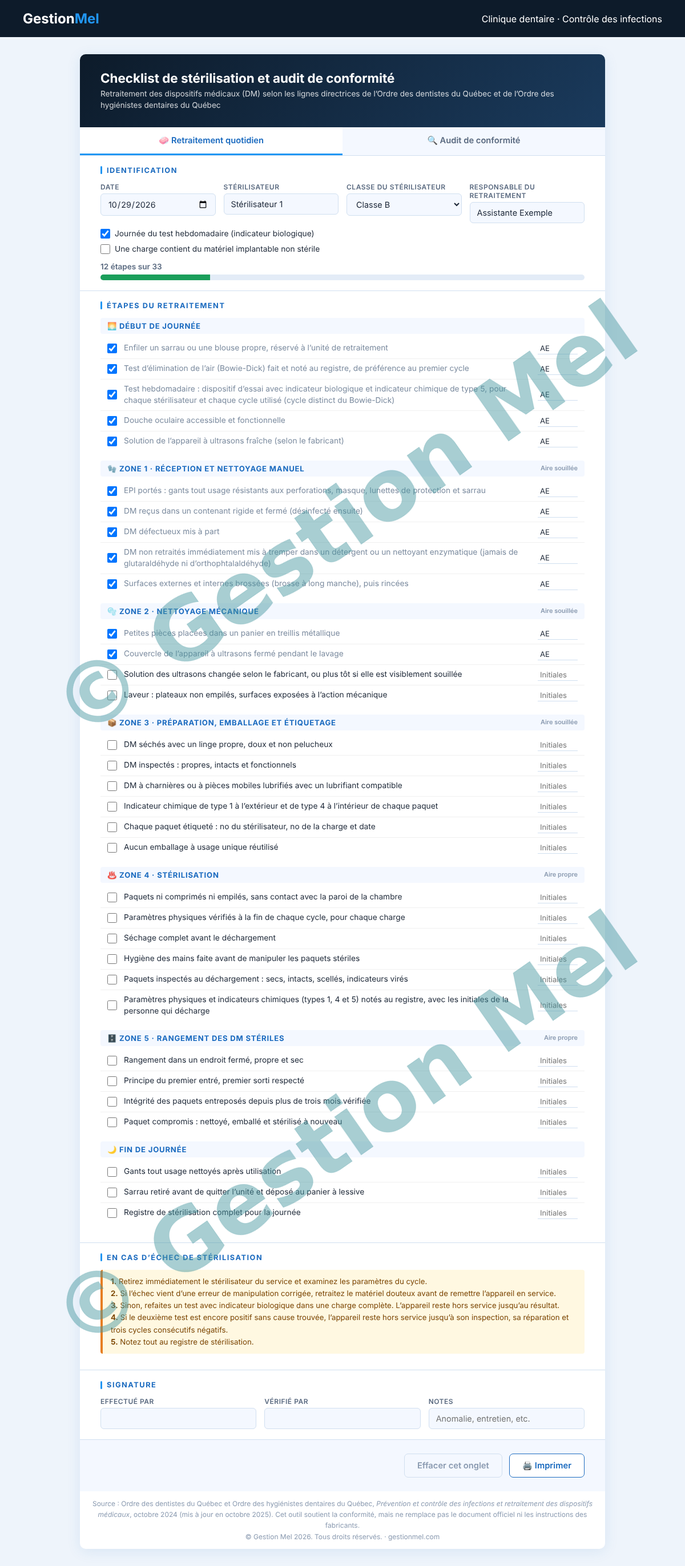
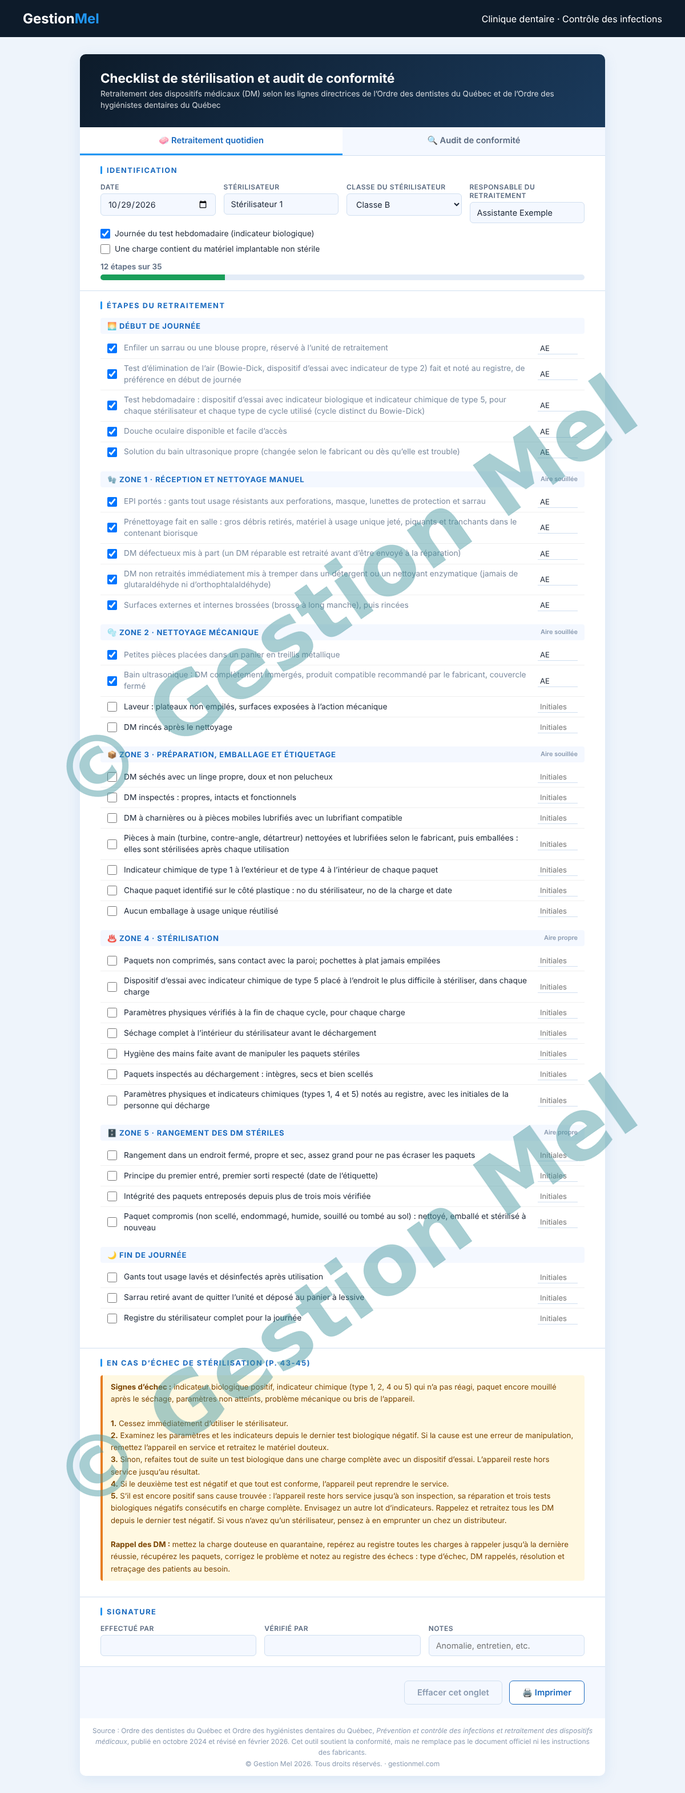
Checklist de stérilisation : mise à jour selon la révision de février 2026
DPE avec IC de type 5 dans chaque charge, registres conservés cinq ans,
protocole de rappel, pièces à main, assurance qualité annuelle et pages de
la version révisée.

Claude-Session: https://claude.ai/code/session_01VwVE9UVcjJxgAsPi28kuNj

Changed region(s): [[0.0, 0.0, 1.0, 0.9913]]

diff --git a/checklist-sterilisation-audit.html b/checklist-sterilisation-audit.html
@@ -98,13 +98,15 @@ table.plan td input{width:100%;padding:6px 8px;font-size:.82rem;}
     </div>
     <div class="section" id="q_liste"></div>
     <div class="section">
-      <div class="section-title">En cas d’échec de stérilisation</div>
+      <div class="section-title">En cas d’échec de stérilisation (p. 43-45)</div>
       <div class="avert-box">
-        <b>1.</b> Retirez immédiatement le stérilisateur du service et examinez les paramètres du cycle.<br>
-        <b>2.</b> Si l’échec vient d’une erreur de manipulation corrigée, retraitez le matériel douteux avant de remettre l’appareil en service.<br>
-        <b>3.</b> Sinon, refaites un test avec indicateur biologique dans une charge complète. L’appareil reste hors service jusqu’au résultat.<br>
-        <b>4.</b> Si le deuxième test est encore positif sans cause trouvée, l’appareil reste hors service jusqu’à son inspection, sa réparation et trois cycles consécutifs négatifs.<br>
-        <b>5.</b> Notez tout au registre de stérilisation.
+        <b>Signes d’échec :</b> indicateur biologique positif, indicateur chimique (type 1, 2, 4 ou 5) qui n’a pas réagi, paquet encore mouillé après le séchage, paramètres non atteints, problème mécanique ou bris de l’appareil.<br><br>
+        <b>1.</b> Cessez immédiatement d’utiliser le stérilisateur.<br>
+        <b>2.</b> Examinez les paramètres et les indicateurs depuis le dernier test biologique négatif. Si la cause est une erreur de manipulation, remettez l’appareil en service et retraitez le matériel douteux.<br>
+        <b>3.</b> Sinon, refaites tout de suite un test biologique dans une charge complète avec un dispositif d’essai. L’appareil reste hors service jusqu’au résultat.<br>
+        <b>4.</b> Si le deuxième test est négatif et que tout est conforme, l’appareil peut reprendre le service.<br>
+        <b>5.</b> S’il est encore positif sans cause trouvée : l’appareil reste hors service jusqu’à son inspection, sa réparation et trois tests biologiques négatifs consécutifs en charge complète. Envisagez un autre lot d’indicateurs. Rappelez et retraitez tous les DM depuis le dernier test négatif. Si vous n’avez qu’un stérilisateur, pensez à en emprunter un chez un distributeur.<br><br>
+        <b>Rappel des DM :</b> mettez la charge douteuse en quarantaine, repérez au registre toutes les charges à rappeler jusqu’à la dernière réussie, récupérez les paquets, corrigez le problème et notez au registre des échecs : type d’échec, DM rappelés, résolution et retraçage des patients au besoin.
       </div>
     </div>
     <div class="section">
@@ -126,7 +128,7 @@ table.plan td input{width:100%;padding:6px 8px;font-size:.82rem;}
         <div class="field"><label class="lab" for="a_par">Réalisé par</label><input type="text" id="a_par" data-k="a_par"></div>
         <div class="field"><label class="lab" for="a_proch">Prochain audit prévu</label><input type="date" id="a_proch" data-k="a_proch"></div>
       </div>
-      <div class="info-box">Pour chaque point, choisissez <b>Conforme</b>, <b>À corriger</b> ou <b>S. O.</b> (sans objet). Les points <span class="tag oblig">Obligatoire</span> correspondent à un « doit » des lignes directrices; les points <span class="tag recom">Recommandé</span>, à un « devrait ». Les pages renvoient à la version d’octobre 2024 du document.</div>
+      <div class="info-box">Pour chaque point, choisissez <b>Conforme</b>, <b>À corriger</b> ou <b>S. O.</b> (sans objet). Les points <span class="tag oblig">Obligatoire</span> correspondent à un « doit » des lignes directrices; les points <span class="tag recom">Recommandé</span>, à un « devrait ». Les pages renvoient à la version révisée de février 2026 du document.</div>
     </div>
     <div class="section" id="a_liste"></div>
     <div class="section" id="a_resultat">
@@ -146,7 +148,7 @@ table.plan td input{width:100%;padding:6px 8px;font-size:.82rem;}
     <button class="btn btn-ghost" id="btnReset">Effacer cet onglet</button>
     <button class="btn btn-secondary" onclick="window.print()">🖨 Imprimer</button>
   </div>
-  <div class="footer-note">Source : Ordre des dentistes du Québec et Ordre des hygiénistes dentaires du Québec, <i>Prévention et contrôle des infections et retraitement des dispositifs médicaux</i>, octobre 2024 (mis à jour en octobre 2025). Cet outil soutient la conformité, mais ne remplace pas le document officiel ni les instructions des fabricants.<br>© Gestion Mel 2026. Tous droits réservés. · gestionmel.com</div>
+  <div class="footer-note">Source : Ordre des dentistes du Québec et Ordre des hygiénistes dentaires du Québec, <i>Prévention et contrôle des infections et retraitement des dispositifs médicaux</i>, publié en octobre 2024 et révisé en février 2026. Cet outil soutient la conformité, mais ne remplace pas le document officiel ni les instructions des fabricants.<br>© Gestion Mel 2026. Tous droits réservés. · gestionmel.com</div>
 </div>
 
 <script>
@@ -154,100 +156,123 @@ table.plan td input{width:100%;padding:6px 8px;font-size:.82rem;}
 const QUOT = [
  {t:'🌅 Début de journée', z:'', items:[
   {id:'d1', x:'Enfiler un sarrau ou une blouse propre, réservé à l’unité de retraitement'},
-  {id:'d2', x:'Test d’élimination de l’air (Bowie-Dick) fait et noté au registre, de préférence au premier cycle', classe:'B'},
-  {id:'d3', x:'Test hebdomadaire : dispositif d’essai avec indicateur biologique et indicateur chimique de type 5, pour chaque stérilisateur et chaque cycle utilisé (cycle distinct du Bowie-Dick)', hebdo:true},
-  {id:'d4', x:'Douche oculaire accessible et fonctionnelle'},
-  {id:'d5', x:'Solution de l’appareil à ultrasons fraîche (selon le fabricant)'} ]},
+  {id:'d2', x:'Test d’élimination de l’air (Bowie-Dick, dispositif d’essai avec indicateur de type 2) fait et noté au registre, de préférence en début de journée', classe:'B'},
+  {id:'d3', x:'Test hebdomadaire : dispositif d’essai avec indicateur biologique et indicateur chimique de type 5, pour chaque stérilisateur et chaque type de cycle utilisé (cycle distinct du Bowie-Dick)', hebdo:true},
+  {id:'d4', x:'Douche oculaire disponible et facile d’accès'},
+  {id:'d5', x:'Solution du bain ultrasonique propre (changée selon le fabricant ou dès qu’elle est trouble)'} ]},
  {t:'🧤 Zone 1 · Réception et nettoyage manuel', z:'Aire souillée', items:[
   {id:'r1', x:'EPI portés : gants tout usage résistants aux perforations, masque, lunettes de protection et sarrau'},
-  {id:'r2', x:'DM reçus dans un contenant rigide et fermé (désinfecté ensuite)'},
-  {id:'r3', x:'DM défectueux mis à part'},
+  {id:'r2', x:'Prénettoyage fait en salle : gros débris retirés, matériel à usage unique jeté, piquants et tranchants dans le contenant biorisque'},
+  {id:'r3', x:'DM défectueux mis à part (un DM réparable est retraité avant d’être envoyé à la réparation)'},
   {id:'r4', x:'DM non retraités immédiatement mis à tremper dans un détergent ou un nettoyant enzymatique (jamais de glutaraldéhyde ni d’orthophtalaldéhyde)'},
   {id:'r5', x:'Surfaces externes et internes brossées (brosse à long manche), puis rincées'} ]},
  {t:'🫧 Zone 2 · Nettoyage mécanique', z:'Aire souillée', items:[
   {id:'m1', x:'Petites pièces placées dans un panier en treillis métallique'},
-  {id:'m2', x:'Couvercle de l’appareil à ultrasons fermé pendant le lavage'},
-  {id:'m3', x:'Solution des ultrasons changée selon le fabricant, ou plus tôt si elle est visiblement souillée'},
-  {id:'m4', x:'Laveur : plateaux non empilés, surfaces exposées à l’action mécanique'} ]},
+  {id:'m2', x:'Bain ultrasonique : DM complètement immergés, produit compatible recommandé par le fabricant, couvercle fermé'},
+  {id:'m4', x:'Laveur : plateaux non empilés, surfaces exposées à l’action mécanique'},
+  {id:'m5', x:'DM rincés après le nettoyage'} ]},
  {t:'📦 Zone 3 · Préparation, emballage et étiquetage', z:'Aire souillée', items:[
   {id:'e1', x:'DM séchés avec un linge propre, doux et non pelucheux'},
   {id:'e2', x:'DM inspectés : propres, intacts et fonctionnels'},
   {id:'e3', x:'DM à charnières ou à pièces mobiles lubrifiés avec un lubrifiant compatible'},
-  {id:'e3b', x:'Pièces à main (turbine, contre-angle, détartreur) nettoyées, lubrifiées et emballées pour être stérilisées après chaque patient'},
+  {id:'e3b', x:'Pièces à main (turbine, contre-angle, détartreur) nettoyées et lubrifiées selon le fabricant, puis emballées : elles sont stérilisées après chaque utilisation'},
   {id:'e4', x:'Indicateur chimique de type 1 à l’extérieur et de type 4 à l’intérieur de chaque paquet'},
-  {id:'e5', x:'Chaque paquet étiqueté : no du stérilisateur, no de la charge et date'},
+  {id:'e5', x:'Chaque paquet identifié sur le côté plastique : no du stérilisateur, no de la charge et date'},
   {id:'e6', x:'Aucun emballage à usage unique réutilisé'} ]},
  {t:'♨ Zone 4 · Stérilisation', z:'Aire propre', items:[
-  {id:'s1', x:'Paquets ni comprimés ni empilés, sans contact avec la paroi de la chambre'},
+  {id:'s1', x:'Paquets non comprimés, sans contact avec la paroi; pochettes à plat jamais empilées'},
+  {id:'s1b', x:'Dispositif d’essai avec indicateur chimique de type 5 placé à l’endroit le plus difficile à stériliser, dans chaque charge'},
   {id:'s2', x:'Charge avec matériel implantable non stérile : dispositif d’essai avec indicateur biologique et indicateur chimique de type 5', impl:true},
   {id:'s3', x:'Paramètres physiques vérifiés à la fin de chaque cycle, pour chaque charge'},
-  {id:'s4', x:'Séchage complet avant le déchargement'},
+  {id:'s4', x:'Séchage complet à l’intérieur du stérilisateur avant le déchargement'},
   {id:'s5', x:'Hygiène des mains faite avant de manipuler les paquets stériles'},
-  {id:'s6', x:'Paquets inspectés au déchargement : secs, intacts, scellés, indicateurs virés'},
+  {id:'s6', x:'Paquets inspectés au déchargement : intègres, secs et bien scellés'},
   {id:'s7', x:'Paramètres physiques et indicateurs chimiques (types 1, 4 et 5) notés au registre, avec les initiales de la personne qui décharge'} ]},
  {t:'🗄 Zone 5 · Rangement des DM stériles', z:'Aire propre', items:[
-  {id:'g1', x:'Rangement dans un endroit fermé, propre et sec'},
-  {id:'g2', x:'Principe du premier entré, premier sorti respecté'},
+  {id:'g1', x:'Rangement dans un endroit fermé, propre et sec, assez grand pour ne pas écraser les paquets'},
+  {id:'g2', x:'Principe du premier entré, premier sorti respecté (date de l’étiquette)'},
   {id:'g3', x:'Intégrité des paquets entreposés depuis plus de trois mois vérifiée'},
-  {id:'g4', x:'Paquet compromis : nettoyé, emballé et stérilisé à nouveau'} ]},
+  {id:'g4', x:'Paquet compromis (non scellé, endommagé, humide, souillé ou tombé au sol) : nettoyé, emballé et stérilisé à nouveau'} ]},
  {t:'🌙 Fin de journée', z:'', items:[
-  {id:'f1', x:'Gants tout usage nettoyés après utilisation'},
+  {id:'f1', x:'Gants tout usage lavés et désinfectés après utilisation'},
   {id:'f2', x:'Sarrau retiré avant de quitter l’unité et déposé au panier à lessive'},
-  {id:'f3', x:'Registre de stérilisation complet pour la journée'} ]}
+  {id:'f3', x:'Registre du stérilisateur complet pour la journée'} ]}
 ];
 
 /* ---------- Contenu : audit de conformité ---------- */
 const AUDIT = [
  {t:'🏗 Aménagement de l’unité de retraitement', items:[
-  {id:'a1', o:1, p:'p. 33', x:'Le retraitement se fait de façon unidirectionnelle, du plus souillé au plus propre'},
-  {id:'a2', o:1, p:'p. 33', x:'L’aire souillée et l’aire propre sont physiquement séparées (cloison, distance suffisante, configuration circulaire ou deux pans de mur)'},
-  {id:'a3', o:1, p:'p. 33', x:'Les 5 zones sont identifiées : réception et nettoyage manuel, nettoyage mécanique, emballage (aire souillée), stérilisation, rangement (aire propre)'},
-  {id:'a4', o:1, p:'p. 33', x:'L’unité sert uniquement au retraitement : aucun travail de laboratoire, aucun nettoyage de prothèses aux ultrasons, aucune pause repas'},
+  {id:'a1', o:1, p:'p. 33', x:'Le retraitement se fait de façon unidirectionnelle, du plus souillé au plus propre, sans retour en arrière'},
+  {id:'a2', o:1, p:'p. 33', x:'L’aire souillée et l’aire propre sont séparées (cloison, distance suffisante, configuration circulaire ou deux pans de mur)'},
+  {id:'a3', o:1, p:'p. 33', x:'Les 5 zones sont distinctes et faciles à repérer : réception et nettoyage manuel, nettoyage mécanique, emballage (aire souillée), stérilisation, rangement (aire propre)'},
+  {id:'a4', o:1, p:'p. 33', x:'L’unité sert uniquement au retraitement : aucun travail de laboratoire, nettoyage de prothèses aux ultrasons ni pause repas, et elle n’est pas dans une salle où se donnent des soins ou des consultations'},
+  {id:'a8', o:1, p:'p. 33', x:'Nouvelle construction ou rénovation : l’unité est dans un espace central, réservée au personnel du retraitement et séparée des aires de circulation'},
   {id:'a5', o:1, p:'p. 31', x:'Personne ne mange ni ne boit dans l’unité de retraitement'},
   {id:'a6', o:1, p:'p. 43', x:'Aucun DM stérile ni matériel à usage unique n’est rangé dans l’aire souillée'},
   {id:'a7', o:0, p:'p. 41', x:'La zone de stérilisation offre assez d’espace pour le déchargement et le refroidissement'} ]},
  {t:'⚙ Équipements', items:[
-  {id:'b1', o:1, p:'p. 41', x:'Tous les stérilisateurs sont homologués par Santé Canada'},
-  {id:'b2', o:1, p:'p. 41', x:'La stérilisation se fait à la vapeur par élimination dynamique de l’air (classe N, B ou S). Aucun chemiclave, stérilisateur à chaleur sèche, à billes ni stérilisation à froid'},
-  {id:'b3', o:0, p:'p. 34', x:'Au remplacement d’un stérilisateur, un appareil de classe B est privilégié (fortement recommandé)'},
-  {id:'b4', o:1, p:'p. 39', x:'Le laveur automatique est un appareil dentaire homologué par Santé Canada (aucun lave-vaisselle domestique ou commercial)'},
-  {id:'b5', o:1, p:'p. 38', x:'Une douche oculaire homologuée, permettant un rinçage de 15 minutes, est accessible dans un endroit central'},
-  {id:'b6', o:1, p:'p. 38', x:'Un contenant pour déchets biorisque rigide, hermétique et identifié est en place'},
-  {id:'b7', o:1, p:'p. 16', x:'Les distributeurs de savon et de solution hydroalcoolique fonctionnent avec une pompe ou un détecteur de mouvement'},
-  {id:'b8', o:1, p:'p. 41', x:'Les instructions du fabricant sont respectées : cycles, qualité de l’eau, entretiens et indicateurs'} ]},
+  {id:'b1', o:1, p:'p. 41, 46', x:'Les stérilisateurs et les autres équipements de retraitement (bain ultrasonique, laveur, séchoir) sont homologués par Santé Canada'},
+  {id:'b2', o:1, p:'p. 41', x:'La stérilisation se fait à la vapeur (classe N, B ou S). Aucun chemiclave, stérilisateur à chaleur sèche ou à billes, ni stérilisation à froid'},
+  {id:'b3', o:1, p:'p. 34', x:'Au remplacement d’un stérilisateur, un appareil à élimination dynamique de l’air (classe B ou S) est priorisé'},
+  {id:'b4', o:1, p:'p. 39', x:'Le laveur automatique est un appareil dentaire homologué (aucun lave-vaisselle domestique ou commercial)'},
+  {id:'b5', o:1, p:'p. 28', x:'Une douche oculaire homologuée par Santé Canada, fixe ou portative, est disponible dans un endroit central facile d’accès'},
+  {id:'b6', o:1, p:'p. 38', x:'Un contenant biorisque rigide, hermétique et identifié est installé dans chaque salle opératoire'},
+  {id:'b7', o:1, p:'p. 16', x:'Le savon et la solution hydroalcoolique sont offerts dans des distributeurs à pompe ou à détecteur de mouvement (aucun savon en pain)'},
+  {id:'b8', o:1, p:'p. 41', x:'Les instructions du fabricant sont respectées : cycles, qualité de l’eau, chargement, entretiens et indicateurs'},
+  {id:'b9', o:1, p:'p. 46', x:'Le programme d’entretien préventif est respecté (nettoyage, lubrification, filtres, joints, calibrage)'},
+  {id:'b10', o:0, p:'p. 46', x:'Les entretiens et les réparations des équipements sont notés au registre'} ]},
  {t:'🧤 Protection du personnel', items:[
   {id:'c1', o:1, p:'p. 38', x:'Le personnel porte des gants tout usage résistants aux perforations, un masque, des lunettes de protection et un sarrau pendant la manipulation et le nettoyage'},
-  {id:'c2', o:1, p:'p. 24', x:'Les gants tout usage résistent aux produits chimiques et sont nettoyés après chaque utilisation'},
+  {id:'c2', o:1, p:'p. 23-24', x:'Les gants tout usage résistent aux produits chimiques et sont lavés et désinfectés après chaque utilisation'},
   {id:'c3', o:1, p:'p. 27', x:'Un sarrau propre et personnel est enfilé à l’entrée de l’unité, y reste, et est retiré avant d’en sortir'} ]},
  {t:'🧽 Prénettoyage, transport et nettoyage', items:[
-  {id:'d1', o:1, p:'p. 37-38', x:'Un contenant pour objets piquants ou tranchants est installé dans chaque salle'},
-  {id:'d2', o:1, p:'p. 38', x:'Les DM contaminés sont transportés dans un contenant rigide et fermé, désinfecté ensuite'},
+  {id:'d1', o:1, p:'p. 37-38', x:'En salle : gros débris retirés, matériel à usage unique jeté, piquants et tranchants dans le contenant biorisque'},
+  {id:'d8', o:1, p:'p. 37', x:'Un DM défectueux est mis à part, et retraité avant d’être envoyé à la réparation'},
+  {id:'d2', o:0, p:'p. 38', x:'Pour un transport sur une grande distance (p. ex., un autre étage), les DM voyagent dans un contenant rigide et fermé, désinfecté ensuite'},
   {id:'d3', o:0, p:'p. 38', x:'Les DM non retraités immédiatement trempent dans un détergent ou un nettoyant enzymatique'},
   {id:'d4', o:1, p:'p. 38', x:'Le glutaraldéhyde et l’orthophtalaldéhyde ne servent jamais de solution de trempage'},
   {id:'d5', o:1, p:'p. 39', x:'Le nettoyage mécanique se fait dans une zone distincte de la réception'},
-  {id:'d6', o:1, p:'p. 39', x:'La solution des ultrasons est changée selon le fabricant et le couvercle reste fermé pendant le lavage'} ]},
- {t:'📦 Emballage et étiquetage', items:[
-  {id:'e1', o:1, p:'p. 40', x:'Les DM à charnières ou à pièces mobiles sont lubrifiés avec un produit compatible'},
-  {id:'e2', o:1, p:'p. 40-41', x:'Les emballages à usage unique ne sont jamais réutilisés'},
-  {id:'e3', o:1, p:'p. 41', x:'La clinique possède la preuve écrite du fabricant validant les matériaux d’emballage'},
-  {id:'e4', o:1, p:'p. 37', x:'Chaque paquet porte un indicateur chimique de type 1 à l’extérieur et de type 4 à l’intérieur'},
-  {id:'e5', o:1, p:'p. 41', x:'Chaque paquet porte le no du stérilisateur, le no de la charge et la date'} ]},
+  {id:'d7', o:1, p:'p. 85', x:'Tous les DM passent au nettoyage mécanique (bain ultrasonique ou laveur)'},
+  {id:'d6', o:1, p:'p. 39', x:'La solution ultrasonique est changée selon le fabricant ou dès qu’elle est trouble, et le couvercle reste fermé pendant le lavage'} ]},
+ {t:'📦 Emballage et identification', items:[
+  {id:'e1', o:1, p:'p. 40', x:'La lubrification se fait dans l’aire souillée, avec un produit compatible, pour tout DM à charnière ou à pièce mobile'},
+  {id:'e2', o:1, p:'p. 40', x:'Les emballages à usage unique ne sont jamais réutilisés'},
+  {id:'e3', o:1, p:'p. 40', x:'La clinique possède la preuve écrite du fabricant validant les matériaux d’emballage'},
+  {id:'e6', o:1, p:'p. 40', x:'Les enveloppes de textile proviennent d’un établissement détenant une licence (LEIM) de Santé Canada'},
+  {id:'e4', o:1, p:'p. 35, 37', x:'Chaque paquet porte un indicateur chimique de type 1 à l’extérieur et de type 4 à l’intérieur'},
+  {id:'e5', o:1, p:'p. 41', x:'Chaque paquet porte le no du stérilisateur, le no de la charge et la date, sur le côté plastique'} ]},
+ {t:'🦷 Pièces à main et matériel à usage unique', items:[
+  {id:'p1', o:1, p:'p. 59', x:'Les pièces à main et les autres dispositifs fixés aux conduites d’air ou d’eau sont stérilisés après chaque utilisation, selon les instructions du fabricant'},
+  {id:'p2', o:1, p:'p. 59', x:'Les composants fixés en permanence (moteur, manchon, succions, seringue air-eau) sont désinfectés ou recouverts d’une barrière changée entre chaque patient'},
+  {id:'p3', o:1, p:'p. 60', x:'Le matériel à usage unique n’est jamais retraité'},
+  {id:'p4', o:0, p:'p. 60', x:'La clinique tient un registre du matériel à usage unique, consulté par les nouveaux employés'} ]},
  {t:'🧪 Surveillance de la stérilisation', items:[
-  {id:'f1', o:1, p:'p. 36', x:'Stérilisateur de classe B : test de Bowie-Dick fait chaque jour et noté au registre'},
-  {id:'f2', o:1, p:'p. 36-37', x:'Chaque semaine, pour chaque stérilisateur et chaque cycle utilisé : dispositif d’essai avec indicateur biologique et indicateur chimique de type 5, dans un cycle distinct du Bowie-Dick'},
-  {id:'f3', o:1, p:'p. 37', x:'Chaque charge contenant du matériel implantable non stérile inclut ce dispositif d’essai'},
+  {id:'f1', o:1, p:'p. 36', x:'Stérilisateur de classe B : test de Bowie-Dick (indicateur de type 2) fait chaque jour et noté au registre'},
+  {id:'f2', o:1, p:'p. 36-37', x:'Chaque semaine, pour chaque stérilisateur et chaque type de cycle utilisé : dispositif d’essai avec indicateur biologique et indicateur chimique de type 5, dans un cycle distinct du Bowie-Dick'},
+  {id:'f2b', o:1, p:'p. 37', x:'Chaque charge contient un dispositif d’essai avec indicateur chimique de type 5, à l’endroit le plus difficile à stériliser'},
+  {id:'f3', o:1, p:'p. 37', x:'Chaque charge contenant du matériel implantable non stérile inclut un dispositif d’essai avec indicateur biologique et indicateur chimique de type 5'},
   {id:'f4', o:1, p:'p. 34', x:'Les paramètres physiques sont vérifiés à la fin de chaque cycle, pour chaque charge'},
-  {id:'f5', o:1, p:'p. 42', x:'Au déchargement, les paramètres et les indicateurs chimiques sont notés au registre, avec les initiales de la personne qui décharge'},
-  {id:'f6', o:1, p:'p. 37', x:'Un indicateur caché dans une cassette est vérifié à l’ouverture en salle et noté au dossier du patient'},
+  {id:'f5', o:1, p:'p. 42', x:'Au déchargement, les paramètres et les indicateurs chimiques (types 1, 4 et 5) sont notés au registre, avec les initiales de la personne qui décharge'},
+  {id:'f6', o:1, p:'p. 37, 42', x:'Un indicateur caché dans une cassette est vérifié à l’ouverture en salle et noté au dossier du patient'},
   {id:'f7', o:0, p:'p. 42', x:'La traçabilité jusqu’au patient est assurée'},
-  {id:'f8', o:1, p:'p. 43-44', x:'Un protocole écrit en cas d’échec de stérilisation est connu de l’équipe'} ]},
+  {id:'f11', o:1, p:'p. 45-46', x:'Les cycles non emballés restent exceptionnels, avec un indicateur de type 5, et sont notés au registre (patient, procédure, professionnel, DM)'} ]},
+ {t:'📋 Protocoles et registres', items:[
+  {id:'f8', o:1, p:'p. 43-44, 48', x:'Un protocole écrit en cas d’échec de stérilisation est connu de l’équipe'},
+  {id:'f9', o:1, p:'p. 45, 48', x:'Un protocole écrit de rappel des DM est établi'},
+  {id:'f10', o:1, p:'p. 48', x:'Les protocoles de retraitement et de gestion de la contamination accidentelle du personnel sont établis'},
+  {id:'r1', o:1, p:'p. 48', x:'Les trois registres exigés sont tenus : registre du stérilisateur, registre des échecs, registre des cycles non emballés'},
+  {id:'r2', o:1, p:'p. 48', x:'Les registres sont conservés pendant cinq ans'} ]},
  {t:'🗄 Entreposage des DM stériles', items:[
   {id:'g1', o:1, p:'p. 43', x:'Les DM stériles sont rangés dans un endroit fermé, propre et sec'},
   {id:'g2', o:1, p:'p. 43', x:'Le principe du premier entré, premier sorti est appliqué'},
   {id:'g3', o:1, p:'p. 43', x:'L’intégrité des paquets entreposés depuis plus de trois mois est vérifiée'},
-  {id:'g4', o:1, p:'p. 43', x:'Tout paquet compromis est nettoyé, emballé et stérilisé à nouveau'} ]},
- {t:'🎓 Formation et documentation', items:[
-  {id:'h1', o:0, p:'p. 19', x:'Le personnel reçoit une formation en prévention et contrôle des infections à l’embauche, mise à jour à chaque nouvelle tâche ou nouvel équipement, et révisée au moins une fois par année'},
+  {id:'g4', o:1, p:'p. 43', x:'Tout paquet compromis (non scellé, endommagé, humide, souillé ou tombé au sol) est nettoyé, emballé et stérilisé à nouveau'} ]},
+ {t:'🎓 Formation et assurance qualité', items:[
+  {id:'h5', o:1, p:'p. 47', x:'Une personne responsable de l’application et du suivi de la prévention des infections est désignée'},
+  {id:'h6', o:1, p:'p. 47', x:'Tous les éléments essentiels de la prévention des infections et du retraitement sont vérifiés au moins une fois par année'},
+  {id:'h4', o:1, p:'p. 47', x:'Le personnel a lu le manuel d’instruction de chaque appareil, et ces manuels sont faciles à consulter'},
+  {id:'h3', o:0, p:'p. 47', x:'Le personnel du retraitement a suivi une formation sur la stérilisation, et les nouveaux employés connaissent les protocoles de la clinique'},
+  {id:'h1', o:0, p:'p. 19', x:'Le personnel reçoit une formation en prévention des infections à l’embauche, mise à jour à chaque nouvelle tâche ou nouvel équipement, et révisée au moins une fois par année'},
   {id:'h2', o:0, p:'p. 19', x:'Les protocoles de retraitement et les instructions des fabricants sont réunis dans le manuel de la clinique'} ]}
 ];
 
